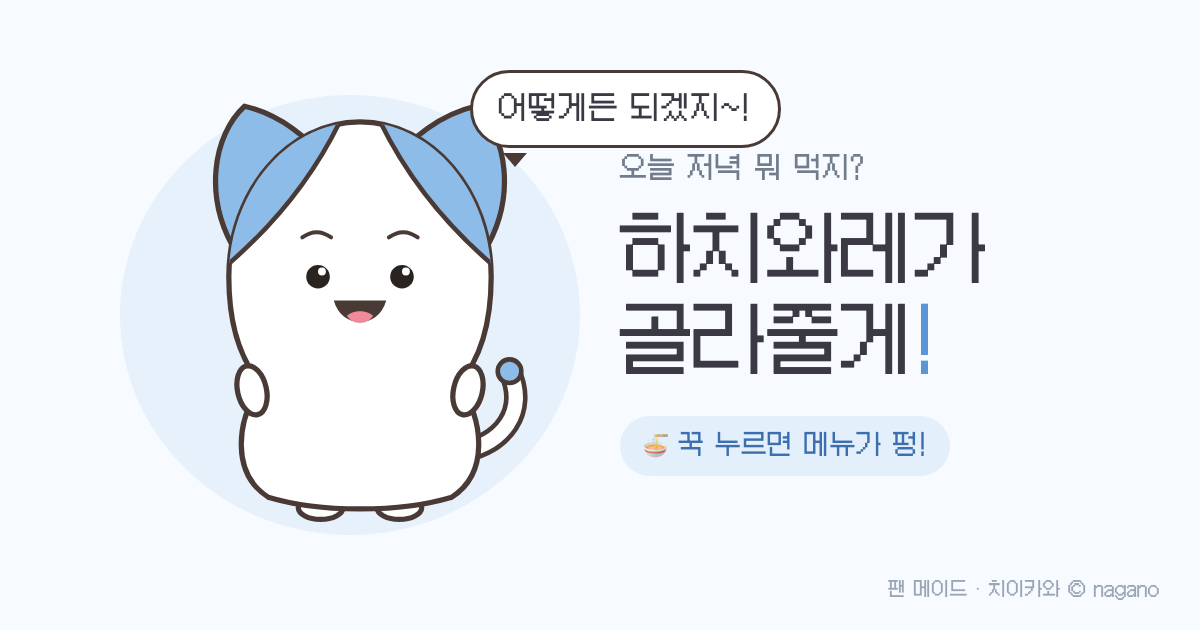
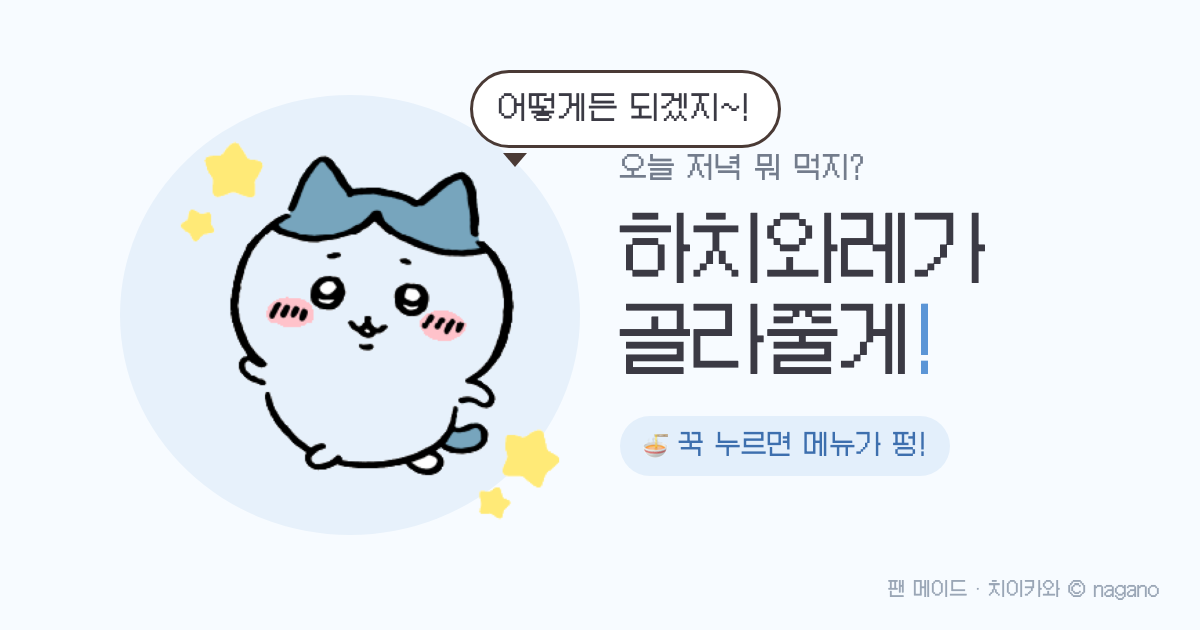
캐릭터를 실제 하치와레 이미지로 교체
- 대기/점프/먹기 3포즈 PNG (배경 제거, 640x680 캔버스 정규화)
- 이미지 모드용 갸웃·식은땀 연출 추가, 상태 애니메이션을 이미지에도 적용
- OG 이미지 재생성, 원본 이미지는 _source/ 로 분리해 git 제외

Changed region(s): [[0.1542, 0.1508, 0.4625, 0.8444]]

diff --git a/css/style.css b/css/style.css
@@ -50,14 +50,14 @@ button:focus-visible{outline:3px solid var(--sky);outline-offset:4px}
 .app[data-state=think] .c-root{transform:rotate(-5deg)}
 .app[data-state=think] .c-eyes{transform:translate(4px,-5px)}
 .app[data-state=think] .c-sweat{opacity:1}
-.app[data-state=torn] .character{animation:sway 1.1s ease-in-out infinite}
+.app[data-state=torn] :is(.character,.character-image){animation:sway 1.1s ease-in-out infinite}
 .app[data-state=torn] .c-sweat{opacity:1}
 .app[data-state=torn] .c-eyes{animation:dart 1.1s ease-in-out infinite}
-.app[data-state=tremble] .character{animation:tremble .19s linear infinite}
+.app[data-state=tremble] :is(.character,.character-image){animation:tremble .19s linear infinite}
 .app[data-state=tremble] .c-sweat,.app[data-state=tremble] .c-blush{opacity:1}
 .app[data-state=tremble] .speech-fluster{opacity:1}
 .app[data-state=tremble] .shake-lines{opacity:1}
-.app[data-state=ready] .character{animation:tremble .13s linear infinite}
+.app[data-state=ready] :is(.character,.character-image){animation:tremble .13s linear infinite}
 .app[data-state=ready] .c-eyes{transform:scale(1.15)}
 .app[data-state=ready] .c-mouth-open,.app[data-state=ready] .c-blush{opacity:1}
 .app[data-state=ready] .c-mouth-closed,.app[data-state=ready] .c-sweat{opacity:0}
@@ -68,13 +68,13 @@ button:focus-visible{outline:3px solid var(--sky);outline-offset:4px}
 .app[data-state=happy] .c-arm-l{transform:rotate(95deg)}
 .app[data-state=happy] .c-arm-r{transform:rotate(-95deg)}
 .app[data-state=happy] .c-tail{animation:wag 1.1s ease-in-out infinite}
-.app[data-phase=burst] .character{animation:jump .48s cubic-bezier(.16,1,.3,1) infinite}
+.app[data-phase=burst] :is(.character,.character-image){animation:jump .48s cubic-bezier(.16,1,.3,1) infinite}
 .app[data-phase=burst] .c-arm-l{animation:wave-l .48s ease-in-out infinite}
 .app[data-phase=burst] .c-arm-r{animation:wave-r .48s ease-in-out infinite}
 .app[data-phase=burst] .speech,.app[data-phase=burst] .scene-star{opacity:0}
 .app[data-phase=burst] .ground{transform:scale(.7)}
 .app[data-phase=burst] .intro{opacity:.25}
-.app[data-phase=result] .character{animation:bob 2.4s ease-in-out infinite}
+.app[data-phase=result] :is(.character,.character-image){animation:bob 2.4s ease-in-out infinite}
 .app[data-phase=result] .speech{opacity:1}
 
 /* 펑! 메시지 */
@@ -153,3 +153,11 @@ button:focus-visible{outline:3px solid var(--sky);outline-offset:4px}
 @media(max-height:680px){.scene{height:220px;--character-size:200px}.scene-glow{height:190px;width:240px}.hold-button,.replay-button,.action-button{min-height:54px;margin-top:16px}.chips{margin-bottom:12px}}
 @media(max-width:350px){.app{padding-left:22px;padding-right:22px}.scene{width:calc(100% + 44px)}.intro h1{font-size:28px}.speech{right:12px}}
 @media(prefers-reduced-motion:reduce){*,*:before,*:after{animation-duration:.01ms!important;animation-iteration-count:1!important;transition-duration:.01ms!important}.app[data-phase=burst] .burst-message{animation:none;opacity:1}.particle{display:none}}
+
+/* 이미지 모드: SVG 부위 연출을 대신하는 보조 연출 */
+.app.use-images .character-button{transform-origin:50% 95%;transition:transform .3s}
+.app.use-images[data-state=think] .character-button{transform:rotate(-6deg)}
+.app.use-images[data-state=torn] .character-button{transform:rotate(4deg)}
+.sweat-drop{position:absolute;right:calc(50% - var(--character-size)*.42);top:calc(50% - var(--character-size)*.38);width:22px;height:30px;opacity:0;transition:opacity .2s;pointer-events:none;z-index:3}
+.app.use-images[data-state=think] .sweat-drop,.app.use-images[data-state=torn] .sweat-drop,.app.use-images[data-state=tremble] .sweat-drop{opacity:1;animation:drip 1.4s ease-in-out infinite}
+@keyframes drip{0%,100%{transform:translateY(0)}50%{transform:translateY(5px)}}

diff --git a/js/app.js b/js/app.js
@@ -6,15 +6,15 @@
     burstDuration: 1300,    // "펑!" 연출 후 결과 카드가 나올 때까지(ms)
     particles: 60,
     // 직접 구한 이미지로 캐릭터를 바꾸려면 true 로 바꾸고 assets/character/ 에 파일을 넣으세요.
-    useImages: false,
+    useImages: true,
     images: {
-      idle: 'assets/character/idle.webp',       // 가만히 서 있는 모습
-      think: 'assets/character/think.webp',     // 고민하는 모습
-      torn: 'assets/character/think.webp',
-      tremble: 'assets/character/tremble.webp', // 떨면서 고민하는 모습
-      ready: 'assets/character/tremble.webp',
-      burst: 'assets/character/happy.webp',     // 팔 들고 기뻐하는 모습
-      happy: 'assets/character/happy.webp'
+      idle: 'assets/character/idle.png',        // 가만히 서 있는 모습
+      think: 'assets/character/idle.png',       // 고민 (기울기·식은땀은 CSS)
+      torn: 'assets/character/idle.png',
+      tremble: 'assets/character/idle.png',     // 떨림·효과선은 CSS
+      ready: 'assets/character/idle.png',
+      burst: 'assets/character/happy.png',      // 펑! 점프하는 모습
+      happy: 'assets/character/eat.png'         // 결과: 맛있게 먹는 모습
     }
   };
 

diff --git a/index.html b/index.html
@@ -94,6 +94,7 @@
         <img class="character-image" id="characterImage" alt="" hidden draggable="false">
       </button>
       <img class="shake-lines" src="assets/effects/shake-lines.svg" alt="" aria-hidden="true">
+      <svg class="sweat-drop" viewBox="0 0 22 30" aria-hidden="true"><path d="M11 2C6 12 2 17 2 21a9 9 0 0 0 18 0c0-4-4-9-9-19Z" fill="#a6d2f7" stroke="#4a3a35" stroke-width="2.2" stroke-linejoin="round"/></svg>
 
       <div class="burst-message" id="burstMessage" aria-hidden="true"><small>오늘 저녁은—!!</small><strong id="burstText"></strong></div>
       <div class="particles" id="particles" aria-hidden="true"></div>

diff --git a/README.md b/README.md
@@ -4,7 +4,8 @@
 꾹 누르고 있으면 하치와레가 점점 더 고민하다가, 100%가 되면 "펑—!" 하고 메뉴를 외칩니다.
 
 - 순수 HTML / CSS / JS. 빌드 도구, 라이브러리, 서버, 저장소 없음.
-- 캐릭터는 직접 그린 인라인 SVG를 CSS로 움직입니다. (숨쉬기 · 눈 깜빡임 · 꼬리 흔들기 · 갸웃 · 떨림 · 점프)
+- 캐릭터 이미지(대기 · 점프 · 먹기 3포즈)를 CSS로 움직입니다. (숨쉬기 · 갸웃 · 식은땀 · 떨림 · 점프 · 바운스)
+- 이미지 없이 쓰려면 `CONFIG.useImages` 를 끄면 직접 그린 인라인 SVG 하치와레로 대체됩니다.
 - 카테고리 필터: 전체 · 한식 · 중식 · 일식 · 양식 · 아시안 · 분식·야식 · 가볍게
 - 결과는 URL 해시(`#r=…`)에만 담겨 공유됩니다. 쿠키 · 서버 · 브라우저 저장소를 쓰지 않습니다.
 
@@ -22,7 +23,7 @@ index.html             페이지 + 인라인 SVG 하치와레
 css/style.css          색상 · 레이아웃 · 캐릭터/연출 애니메이션
 js/menus.js            메뉴 목록 (여기만 고치면 메뉴 추가/수정)
 js/app.js              꾹 누르기 게이지 · 상태 전환 · 결과 · 공유 링크 (CONFIG 로 조절)
-assets/character/      직접 구한 캐릭터 이미지를 넣는 슬롯 (README 참고)
+assets/character/      캐릭터 포즈 이미지 idle · happy · eat (README 참고)
 assets/social/og.png   링크 미리보기 이미지 (1200×630)
 assets/effects/        파비콘 · 흔들림 효과선
 vercel.json            정적 배포 설정 (캐시 · 보안 헤더)
@@ -41,9 +42,9 @@ vercel.json            정적 배포 설정 (캐시 · 보안 헤더)
 
 ## 캐릭터 이미지 교체
 
-`assets/character/README.md` 를 참고하세요. 정지 이미지 4장만 있으면 움직임은 CSS가 처리합니다.
+`assets/character/README.md` 를 참고하세요. 정지 이미지만 있으면 움직임은 CSS가 처리합니다.
 
 ## 저작권
 
-치이카와 © nagano. 이 프로젝트는 비영리 팬 메이드이며, 공식 일러스트를 포함하지 않습니다.
+치이카와 © nagano / ちいかわ製作委員会. 이 프로젝트는 비영리 팬 메이드입니다. 캐릭터 이미지의 권리는 원저작자에게 있습니다.
 글꼴: [Galmuri](https://galmuri.quiple.dev) (SIL OFL).

diff --git a/assets/character/README.md b/assets/character/README.md
@@ -1,13 +1,13 @@
-# 캐릭터 이미지 슬롯
+# 캐릭터 이미지
 
-기본값은 `index.html` 안에 직접 그린 인라인 SVG 하치와레를 CSS로 움직입니다.
-직접 구한 이미지로 바꾸려면:
+`js/app.js` 의 `CONFIG.useImages` 가 `true` 이면 이 폴더의 이미지를, `false` 이면 `index.html` 안의 직접 그린 SVG를 씁니다.
 
-1. 아래 파일을 이 폴더에 넣습니다 (투명 배경 WebP/PNG, 권장 640×680).
-   - `idle.webp`    가만히 서 있는 모습
-   - `think.webp`   고개 갸웃, 고민하는 모습
-   - `tremble.webp` 식은땀 흘리며 떨고 있는 모습
-   - `happy.webp`   팔 번쩍 들고 기뻐하는 모습
-2. `js/app.js` 의 `CONFIG.useImages` 를 `true` 로 바꿉니다.
+| 파일 | 쓰이는 상태 |
+|---|---|
+| `idle.png`  | 대기 · 고민(갸웃) · 떨림 (기울기 · 식은땀 · 효과선은 CSS) |
+| `happy.png` | 펑! 점프 |
+| `eat.png`   | 결과 (맛있게 먹기) |
 
-흔들림·점프·바운스 같은 움직임은 CSS가 그대로 적용되므로 정지 이미지만 있으면 됩니다.
+- 투명 배경 PNG, 640×680 캔버스에 캐릭터를 아래 정렬로 맞춰 두면 포즈가 바뀌어도 위치가 튀지 않습니다.
+- 원본 이미지는 `_source/` 에 두고 git 에서 제외합니다.
+- 다른 포즈를 추가하려면 파일을 넣고 `CONFIG.images` 의 상태 → 파일 매핑만 바꾸면 됩니다.
